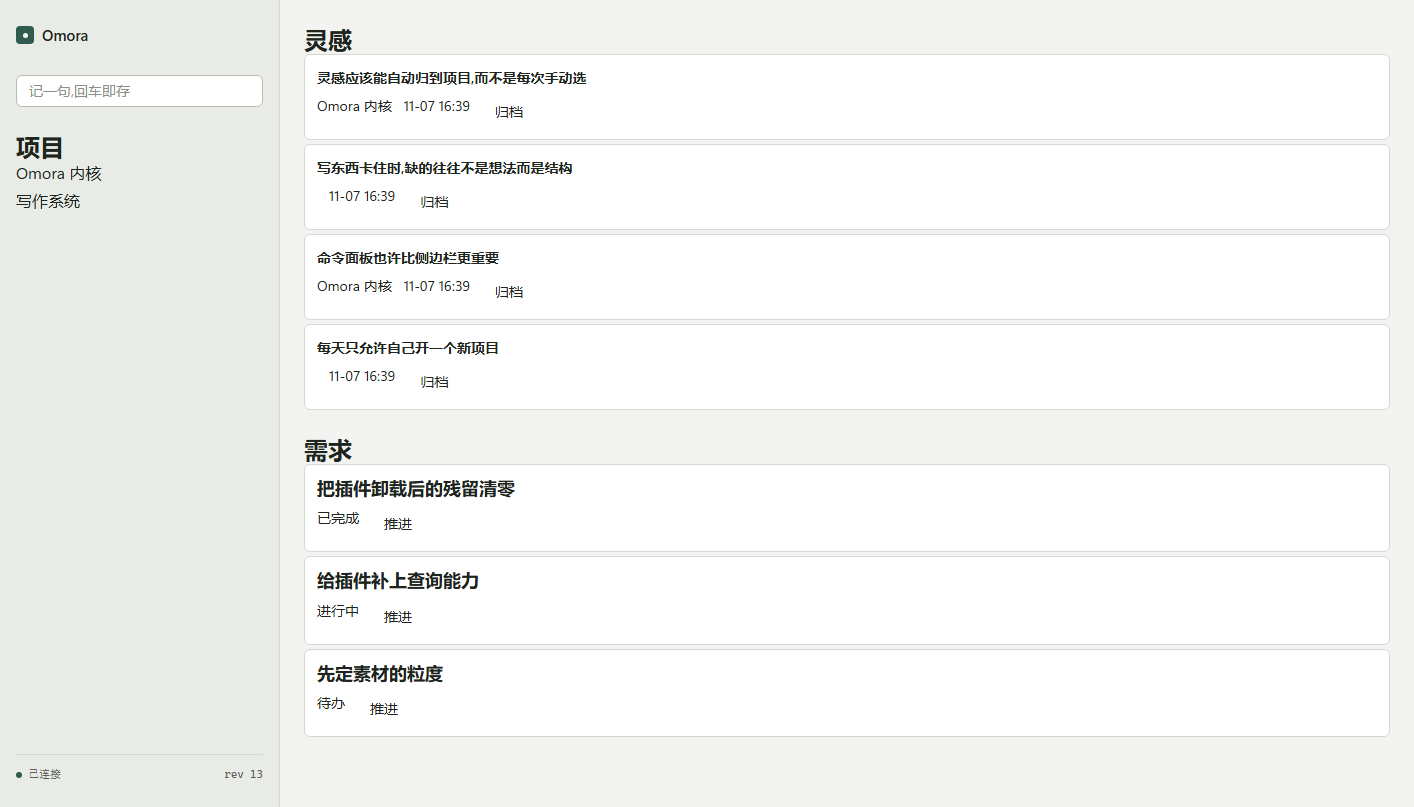
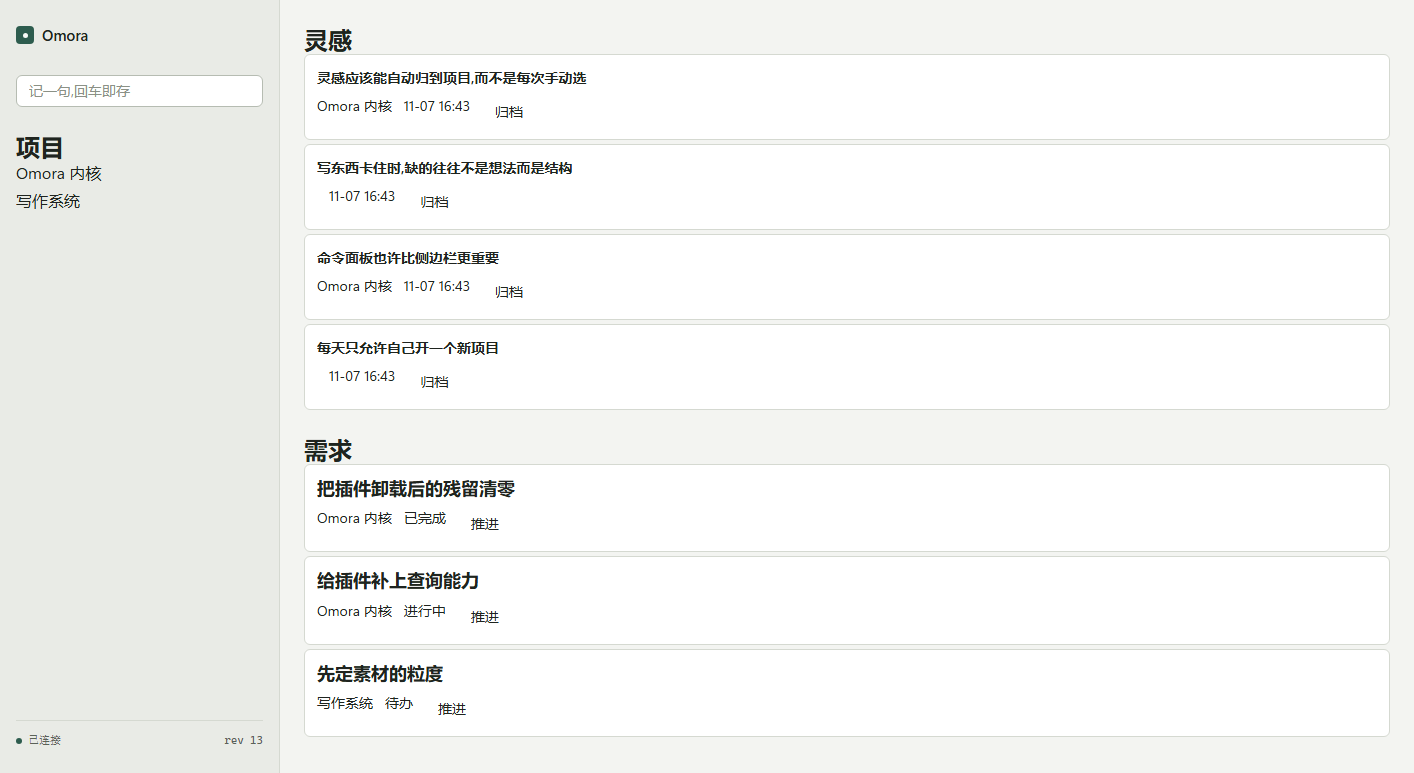
feat(requirements): 显示所属项目并支持一路推进
建需求时经 projects.lookup 取项目名,拿不到就留空而不是失败;
推进按钮按 nextStatus 走 todo → doing → done。

diff --git a/plugins/requirements/src/omora_plugins_requirements/__init__.py b/plugins/requirements/src/omora_plugins_requirements/__init__.py
@@ -26,6 +26,7 @@ MAIN_CONTRIBUTION_ID = "requirements.main"
 CREATE_COMMAND = "requirements.create"
 SET_STATUS_COMMAND = "requirements.setStatus"
 LIST_QUERY = "requirements.list"
+PROJECT_LOOKUP_SERVICE = "projects.lookup"
 CREATED_EVENT = "requirements.created"
 STATUS_CHANGED_EVENT = "requirements.statusChanged"
 
@@ -58,6 +59,7 @@ def _requirement_items(state: Mapping[str, object]) -> list[dict[str, object]]:
 
 
 STATUS_LABELS = {"todo": "待办", "doing": "进行中", "done": "已完成"}
+NEXT_STATUS = {"todo": STATUS_DOING, "doing": STATUS_DONE, "done": STATUS_DONE}
 
 
 def _label(status: object) -> str:
@@ -76,8 +78,10 @@ def _fold_created(state: dict[str, object], data: Mapping[str, object]) -> None:
             "id": identifier,
             "title": title,
             "projectId": data.get("projectId"),
+            "projectTitle": data.get("projectTitle", ""),
             "status": data.get("status"),
             "statusLabel": _label(data.get("status")),
+            "nextStatus": NEXT_STATUS.get(str(data.get("status")), STATUS_DONE),
             "at": data.get("at"),
         }
     )
@@ -93,6 +97,7 @@ def _fold_status_changed(state: dict[str, object], data: Mapping[str, object]) -
         if item.get("id") == identifier:
             item["status"] = status
             item["statusLabel"] = _label(status)
+            item["nextStatus"] = NEXT_STATUS.get(status, STATUS_DONE)
 
 
 def _string_arg(args: Mapping[str, object], key: str) -> str:
@@ -109,17 +114,34 @@ def _status_arg(args: Mapping[str, object]) -> str:
     return value
 
 
+async def _project_title(ctx: PluginContext, project_id: str) -> str:
+    """问 projects 要项目名;没装或查不到就留空,不让建需求失败。"""
+    if not project_id:
+        return ""
+    try:
+        found = await ctx.services.call(PROJECT_LOOKUP_SERVICE, {"id": project_id})
+    except Exception:
+        ctx.log.warn(f"无法解析项目 {project_id},需求将不显示项目名")
+        return ""
+    if not isinstance(found, Mapping):
+        return ""
+    title = cast("Mapping[str, object]", found).get("title")
+    return title if isinstance(title, str) else ""
+
+
 def _create_command(ctx: PluginContext) -> Handler:
     """requirements.create:新建需求,初始状态 todo。"""
 
     async def create(args: Mapping[str, object]) -> object:
         requirement_id = ctx.ids.next()
+        project_id = _string_arg(args, "projectId")
         await ctx.events.emit(
             CREATED_EVENT,
             {
                 "id": requirement_id,
                 "title": _string_arg(args, "title"),
-                "projectId": _string_arg(args, "projectId"),
+                "projectId": project_id,
+                "projectTitle": await _project_title(ctx, project_id),
                 "status": STATUS_TODO,
                 "at": ctx.clock.now().isoformat(),
             },
@@ -165,11 +187,12 @@ def _view(_state: Mapping[str, object]) -> Sequence[Node]:
                                 text("$item.title", variant="subtitle"),
                                 stack(
                                     [
+                                        text("$item.projectTitle", variant="caption"),
                                         text("$item.statusLabel", variant="caption"),
                                         button(
                                             "推进",
                                             command=SET_STATUS_COMMAND,
-                                            args={"id": "$item.id", "status": STATUS_DOING},
+                                            args={"id": "$item.id", "status": "$item.nextStatus"},
                                             variant="ghost",
                                         ),
                                     ],

diff --git a/plugins/requirements/tests/test_requirements_plugin.py b/plugins/requirements/tests/test_requirements_plugin.py
@@ -8,7 +8,7 @@ from __future__ import annotations
 
 import asyncio
 import json
-from collections.abc import Sequence
+from collections.abc import Mapping, Sequence
 from pathlib import Path
 from typing import Any, cast
 
@@ -85,8 +85,16 @@ def test_activate_registers_commands_query_and_contribution() -> None:
     }
 
 
+def _provide_project_lookup(context: FakeContext, title: str) -> None:
+    async def lookup(args: Mapping[str, object]) -> object:
+        return {"id": args.get("id"), "title": title}
+
+    context.fake_services.provide("projects.lookup", lookup)
+
+
 def test_create_emits_created_event_with_project_and_initial_todo_status() -> None:
     context = _activated()
+    _provide_project_lookup(context, "Omora P1")
 
     result = _create(context, "导出需求", "project-1")
 
@@ -98,11 +106,22 @@ def test_create_emits_created_event_with_project_and_initial_todo_status() -> No
                 "id": "requirement-1",
                 "title": "导出需求",
                 "projectId": "project-1",
+                "projectTitle": "Omora P1",
                 "status": "todo",
                 "at": NOW.isoformat(),
             },
         )
     ]
+
+
+def test_create_still_works_when_projects_plugin_is_absent() -> None:
+    context = _activated()
+
+    asyncio.run(context.fake_commands.invoke("requirements.create", {"title": "独立需求"}))
+
+    event_type, data = context.fake_events.emitted[-1]
+    assert event_type == "requirements.created"
+    assert data["projectTitle"] == "", "拿不到项目名时留空,而不是让建需求失败"
 
 
 def test_created_event_folds_into_items() -> None:
@@ -116,8 +135,10 @@ def test_created_event_folds_into_items() -> None:
                 "id": "requirement-1",
                 "title": "导出需求",
                 "projectId": "project-1",
+                "projectTitle": "",
                 "status": "todo",
                 "statusLabel": "待办",
+                "nextStatus": "doing",
                 "at": NOW.isoformat(),
             }
         ]
@@ -201,7 +222,11 @@ def test_requirement_row_shows_title_and_status() -> None:
     texts = _find(_rows(_activated()), "Text")
 
     props = [cast("dict[str, object]", node["props"]) for node in texts]
-    assert [entry["text"] for entry in props] == ["$item.title", "$item.statusLabel"]
+    assert [entry["text"] for entry in props] == [
+        "$item.title",
+        "$item.projectTitle",
+        "$item.statusLabel",
+    ]
 
 
 def test_advance_button_binds_item_id_and_doing_status() -> None:
@@ -209,7 +234,10 @@ def test_advance_button_binds_item_id_and_doing_status() -> None:
 
     assert len(buttons) == 1
     assert buttons[0]["on"] == {
-        "click": {"command": SET_STATUS_COMMAND, "args": {"id": "$item.id", "status": "doing"}}
+        "click": {
+            "command": SET_STATUS_COMMAND,
+            "args": {"id": "$item.id", "status": "$item.nextStatus"},
+        }
     }
 
 
